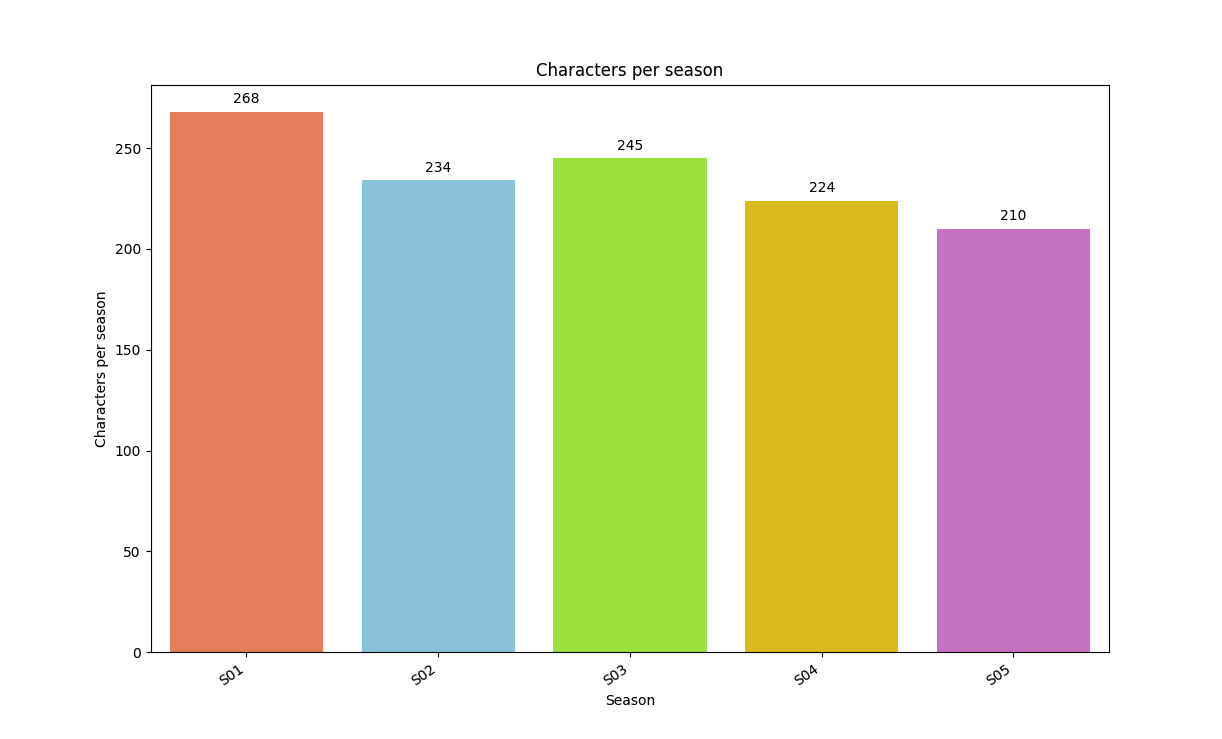
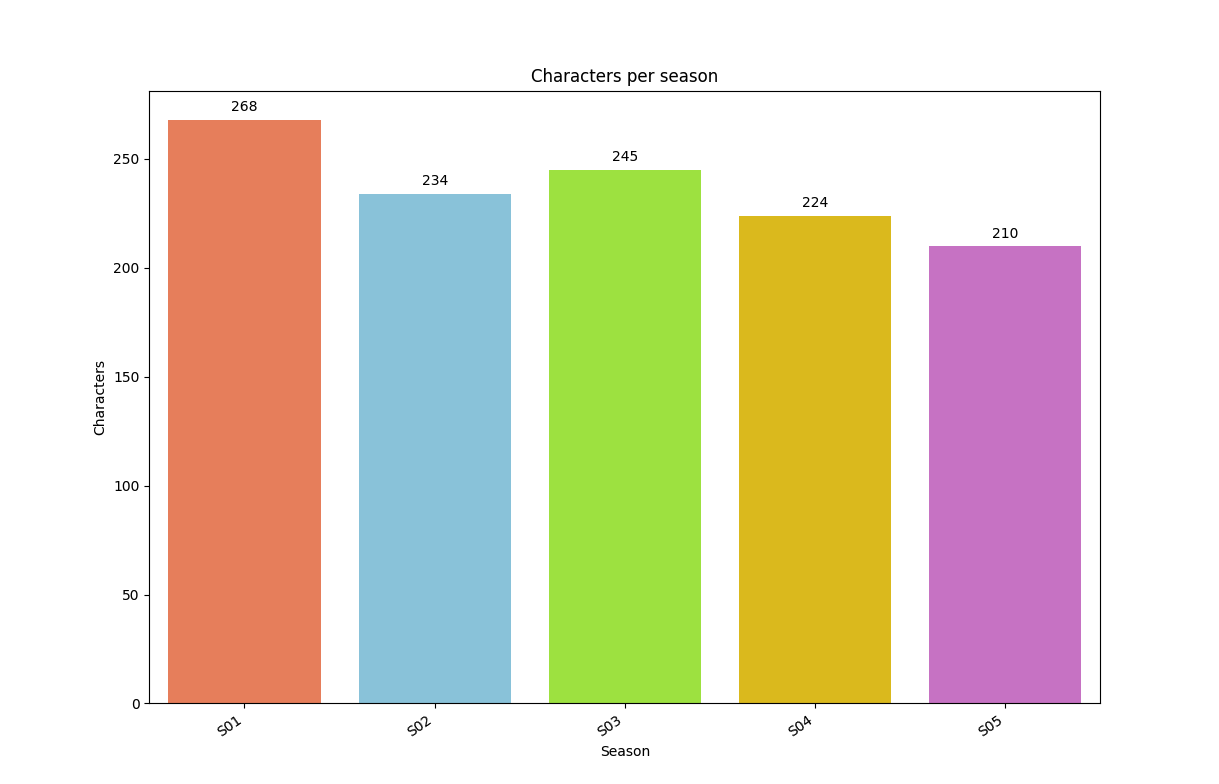
fix redundancy

diff --git a/scripts/DataOperations.py b/scripts/DataOperations.py
@@ -89,7 +89,7 @@ class DataOperations:
             .unique()
             .with_columns(pl.col('episode').str.slice(0, 3).alias('Season'))
             .group_by('Season')
-            .agg(pl.count('name').alias('Characters per season'))
+            .agg(pl.count('name').alias('Characters'))
             .sort('Season')
             .limit(5)
         )
@@ -154,5 +154,5 @@ class DataOperations:
 
         self.draw_bar_plot('Name', 'Appearances in episodes', appearances_in_episodes, 'TOP 5 characters appearances')
         self.draw_bar_plot('Location', 'Characters per location', characters_per_location, 'TOP 5 inhabited locations')
-        self.draw_bar_plot('Season', 'Characters per season', characters_per_season, 'Characters per season')
+        self.draw_bar_plot('Season', 'Characters', characters_per_season, 'Characters per season')
         self.draw_bar_plot('Year', 'Episodes', episodes_per_year, 'Episodes per year')
